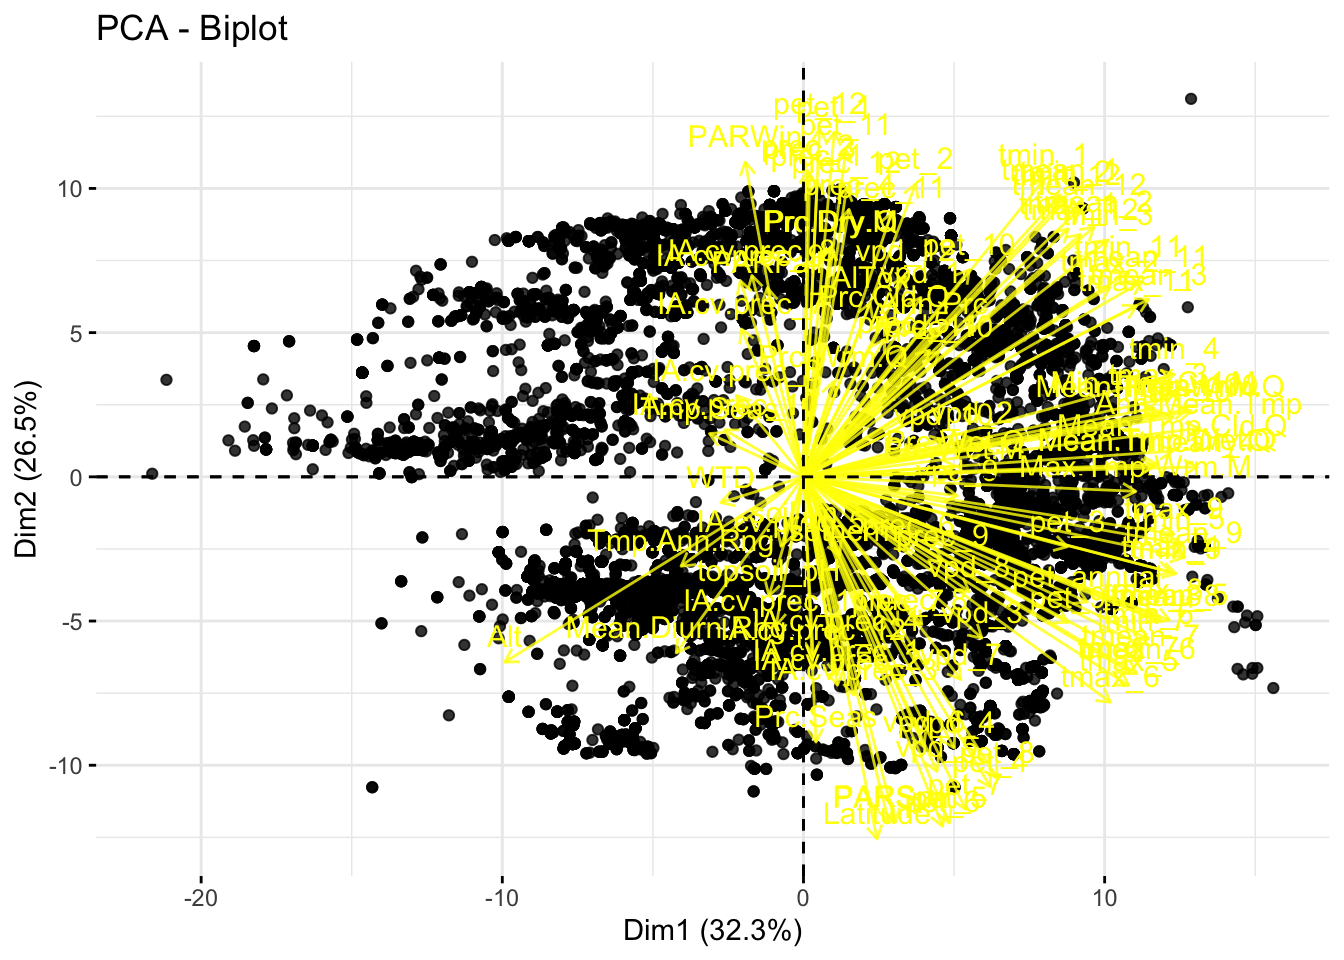
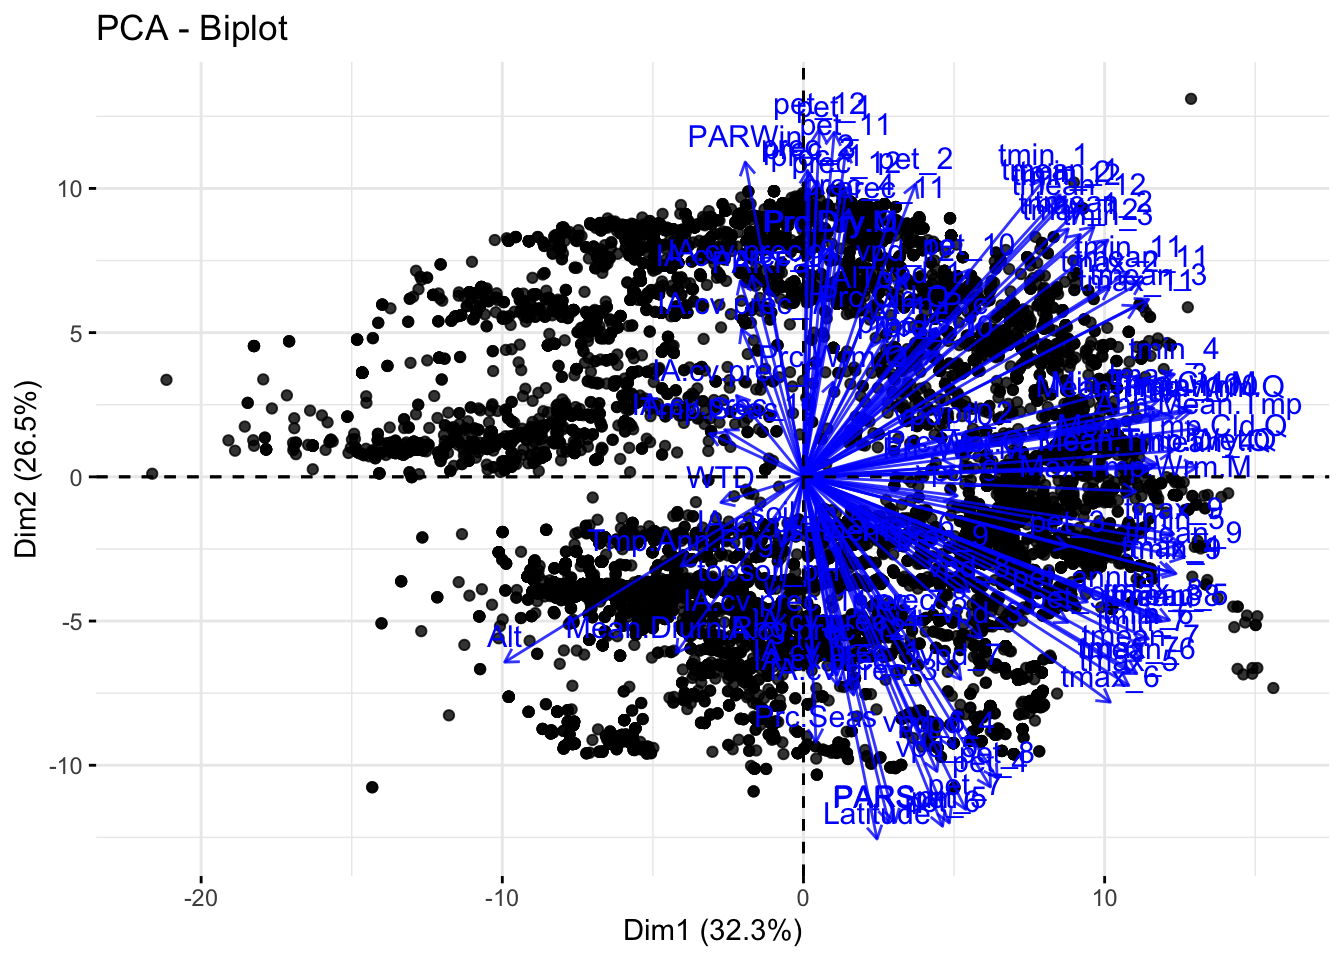
Build site.

Changed region(s): [[0.3438, 0.0938, 0.9688, 0.875]]

diff --git a/docs/WorkflowrTutorial.html b/docs/WorkflowrTutorial.html
@@ -509,16 +509,16 @@ This reproducible <a href="http://rmarkdown.rstudio.com">R Markdown</a> analysis
 <div class="panel panel-default">
 <div class="panel-heading">
 <p class="panel-title">
-<a data-toggle="collapse" data-parent="#workflowr-checks" href="#strongRepositoryversionstrongahrefhttpsgithubcomchloeemclaughlinmyprojecttree313c1032390f8142e7d67666b114576a4168c2a2targetblank313c103a"> <span class="glyphicon glyphicon-ok text-success" aria-hidden="true"></span> <strong>Repository version:</strong> <a href="https://github.com/chloee-mclaughlin/myproject/tree/313c1032390f8142e7d67666b114576a4168c2a2" target="_blank">313c103</a> </a>
+<a data-toggle="collapse" data-parent="#workflowr-checks" href="#strongRepositoryversionstrongahrefhttpsgithubcomchloeemclaughlinmyprojecttreea72b19652a5252588ab214bdb7db50e577f00f92targetblanka72b196a"> <span class="glyphicon glyphicon-ok text-success" aria-hidden="true"></span> <strong>Repository version:</strong> <a href="https://github.com/chloee-mclaughlin/myproject/tree/a72b19652a5252588ab214bdb7db50e577f00f92" target="_blank">a72b196</a> </a>
 </p>
 </div>
[2 lines of base64/hex data omitted]
 <div class="panel-body">
 <p>
 Great! You are using Git for version control. Tracking code development and connecting the code version to the results is critical for reproducibility.
 </p>
 <p>
-The results in this page were generated with repository version <a href="https://github.com/chloee-mclaughlin/myproject/tree/313c1032390f8142e7d67666b114576a4168c2a2" target="_blank">313c103</a>. See the <em>Past versions</em> tab to see a history of the changes made to the R Markdown and HTML files.
+The results in this page were generated with repository version <a href="https://github.com/chloee-mclaughlin/myproject/tree/a72b19652a5252588ab214bdb7db50e577f00f92" target="_blank">a72b196</a>. See the <em>Past versions</em> tab to see a history of the changes made to the R Markdown and HTML files.
 </p>
 <p>
 Note that you need to be careful to ensure that all relevant files for the analysis have been committed to Git prior to generating the results (you can use <code>wflow_publish</code> or <code>wflow_git_commit</code>). workflowr only checks the R Markdown file, but you know if there are other scripts or data files that it depends on. Below is the status of the Git repository when the results were generated:
@@ -532,7 +532,8 @@ Ignored files:
     Ignored:    data/.DS_Store
 
 Untracked files:
-    Untracked:  WorkflowRTutoiral.R
+    Untracked:  WorkflowRTutorial.R
+    Untracked:  data/Maize_Accessions_climate_drought_soil_clean_data_12220.csv
     Untracked:  data/all.acc.csv
     Untracked:  data/allLines_with_GID_includes_founders.csv
     Untracked:  data/maiz_clim_all
@@ -575,6 +576,40 @@ Message
 </tr>
 </thead>
 <tbody>
+<tr>
+<td>
+Rmd
+</td>
+<td>
+<a href="https://github.com/chloee-mclaughlin/myproject/blob/a72b19652a5252588ab214bdb7db50e577f00f92/analysis/WorkflowrTutorial.Rmd" target="_blank">a72b196</a>
+</td>
+<td>
+Chloee McLaughlin
+</td>
+<td>
+2020-12-07
+</td>
+<td>
+Publish the PCA analysis-updated 12/7/20
+</td>
+</tr>
+<tr>
+<td>
+html
+</td>
+<td>
+<a href="https://rawcdn.githack.com/chloee-mclaughlin/myproject/fdd6227446066043621251fd4ef9c2cc98baaa46/docs/WorkflowrTutorial.html" target="_blank">fdd6227</a>
+</td>
+<td>
+Chloee McLaughlin
+</td>
+<td>
+2020-12-07
+</td>
+<td>
+Build site.
+</td>
+</tr>
 <tr>
 <td>
 html
@@ -819,7 +854,7 @@ Chloee McLaughlin
 <pre class="r"><code>##test for only founders
 fviz_pca_biplot(env.pc,
                 axes= c(1,2),
-                col.var = &quot;yellow&quot;, alpha=.8, # Variables color
+                col.var = &quot;blue&quot;, alpha=.8, # Variables color and transparency
                 col.ind = &quot;black&quot;,
                 label = &quot;var&quot;, # Individuals color,
                 legend.title = &quot;Races&quot;
@@ -862,6 +897,41 @@ Chloee McLaughlin
 </table>
 </div>
 </div>
+<p>Isolate founder races and see environment</p>
+<pre class="r"><code>##Making dataframe with only founder races
+found.env.dat &lt;- all.acc[all.acc$Race %in% c(&quot;CONICO&quot;,&quot;GORDO&quot;,&quot;JALA&quot;,&quot;NALTEL&quot;,&quot;PALOME&quot;,
+                                                     &quot;REVENT&quot;,&quot;TABLON&quot;,&quot;ZAPCHI&quot;), ]
+
+###PC, removing NAs and setting categorical variables
+found.env.dat &lt;-na.omit(found.env.dat)
+active.found &lt;-found.env.dat[,6:142]
+active.found.cat &lt;- found.env.dat[,1:5]
+
+##Run PCA for only MAGIC founders
+found.pc &lt;- dudi.pca(active.found,
+                    scannf = FALSE,   # Hide scree plot
+                    nf = 10           # Number of components kept in the results
+                   )
+
+#using races as a grouping factor
+race&lt;-active.found.cat$Race
+
+fviz_pca_ind(found.pc,
+             axes=c(1,2),
+             col.ind = as.factor(race),
+             geom = &quot;point&quot;,
+                    palette = c(&quot;#2586CC&quot;,&quot;#337C61&quot;,&quot;#E1C34A&quot;,&quot;#D8904F&quot;,&quot;#725E5E&quot;, &quot;#F0B3A2&quot;,
+                                &quot;#88CF56&quot;, &quot;#A44638&quot;),
+             alpha=.6,
+                    addEllipses = TRUE, # Concentration ellipses
+                    ellipse.type = c(&quot;norm&quot;),
+                    legend.title = &quot;Race&quot;)</code></pre>
+<p><img src="figure/WorkflowrTutorial.Rmd/unnamed-chunk-5-1.png" width="672" style="display: block; margin: auto;" /></p>
+<pre class="r"><code>                    #repel = TRUE)</code></pre>
+<p>Look at just soil traits (all FOAM genotypes)</p>
+<pre class="r"><code>FOAM &lt;- read.csv(&quot;data/Maize_Accessions_climate_drought_soil_clean_data_12220.csv&quot;)
+dim(FOAM)</code></pre>
+<pre><code>[1] 2912  225</code></pre>
 <br>
 <p>
 <button type="button" class="btn btn-default btn-workflowr btn-workflowr-sessioninfo" data-toggle="collapse" data-target="#workflowr-sessioninfo" style="display: block;">

diff --git a/docs/WorkFlowRTut.html b/docs/WorkFlowRTut.html
@@ -509,16 +509,16 @@ This reproducible <a href="http://rmarkdown.rstudio.com">R Markdown</a> analysis
 <div class="panel panel-default">
 <div class="panel-heading">
 <p class="panel-title">
-<a data-toggle="collapse" data-parent="#workflowr-checks" href="#strongRepositoryversionstrongahrefhttpsgithubcomchloeemclaughlinmyprojecttree70b2403c4c3c8fce5871a002f6033199fd955082targetblank70b2403a"> <span class="glyphicon glyphicon-ok text-success" aria-hidden="true"></span> <strong>Repository version:</strong> <a href="https://github.com/chloee-mclaughlin/myproject/tree/70b2403c4c3c8fce5871a002f6033199fd955082" target="_blank">70b2403</a> </a>
+<a data-toggle="collapse" data-parent="#workflowr-checks" href="#strongRepositoryversionstrongahrefhttpsgithubcomchloeemclaughlinmyprojecttreea72b19652a5252588ab214bdb7db50e577f00f92targetblanka72b196a"> <span class="glyphicon glyphicon-ok text-success" aria-hidden="true"></span> <strong>Repository version:</strong> <a href="https://github.com/chloee-mclaughlin/myproject/tree/a72b19652a5252588ab214bdb7db50e577f00f92" target="_blank">a72b196</a> </a>
 </p>
 </div>
[2 lines of base64/hex data omitted]
 <div class="panel-body">
 <p>
 Great! You are using Git for version control. Tracking code development and connecting the code version to the results is critical for reproducibility.
 </p>
 <p>
-The results in this page were generated with repository version <a href="https://github.com/chloee-mclaughlin/myproject/tree/70b2403c4c3c8fce5871a002f6033199fd955082" target="_blank">70b2403</a>. See the <em>Past versions</em> tab to see a history of the changes made to the R Markdown and HTML files.
+The results in this page were generated with repository version <a href="https://github.com/chloee-mclaughlin/myproject/tree/a72b19652a5252588ab214bdb7db50e577f00f92" target="_blank">a72b196</a>. See the <em>Past versions</em> tab to see a history of the changes made to the R Markdown and HTML files.
 </p>
 <p>
 Note that you need to be careful to ensure that all relevant files for the analysis have been committed to Git prior to generating the results (you can use <code>wflow_publish</code> or <code>wflow_git_commit</code>). workflowr only checks the R Markdown file, but you know if there are other scripts or data files that it depends on. Below is the status of the Git repository when the results were generated:
@@ -532,7 +532,8 @@ Ignored files:
     Ignored:    data/.DS_Store
 
 Untracked files:
-    Untracked:  WorkflowRTutoiral.R
+    Untracked:  WorkflowRTutorial.R
+    Untracked:  data/Maize_Accessions_climate_drought_soil_clean_data_12220.csv
     Untracked:  data/all.acc.csv
     Untracked:  data/allLines_with_GID_includes_founders.csv
     Untracked:  data/maiz_clim_all
@@ -575,6 +576,23 @@ Message
 </tr>
 </thead>
 <tbody>
+<tr>
+<td>
+html
+</td>
+<td>
+<a href="https://rawcdn.githack.com/chloee-mclaughlin/myproject/313c1032390f8142e7d67666b114576a4168c2a2/docs/WorkFlowRTut.html" target="_blank">313c103</a>
+</td>
+<td>
+Chloee McLaughlin
+</td>
+<td>
+2020-12-07
+</td>
+<td>
+Build site.
+</td>
+</tr>
 <tr>
 <td>
 html

diff --git a/docs/license.html b/docs/license.html
@@ -373,16 +373,16 @@ This reproducible <a href="http://rmarkdown.rstudio.com">R Markdown</a> analysis
 <div class="panel panel-default">
 <div class="panel-heading">
 <p class="panel-title">
-<a data-toggle="collapse" data-parent="#workflowr-checks" href="#strongRepositoryversionstrongahrefhttpsgithubcomchloeemclaughlinmyprojecttree70b2403c4c3c8fce5871a002f6033199fd955082targetblank70b2403a"> <span class="glyphicon glyphicon-ok text-success" aria-hidden="true"></span> <strong>Repository version:</strong> <a href="https://github.com/chloee-mclaughlin/myproject/tree/70b2403c4c3c8fce5871a002f6033199fd955082" target="_blank">70b2403</a> </a>
+<a data-toggle="collapse" data-parent="#workflowr-checks" href="#strongRepositoryversionstrongahrefhttpsgithubcomchloeemclaughlinmyprojecttreea72b19652a5252588ab214bdb7db50e577f00f92targetblanka72b196a"> <span class="glyphicon glyphicon-ok text-success" aria-hidden="true"></span> <strong>Repository version:</strong> <a href="https://github.com/chloee-mclaughlin/myproject/tree/a72b19652a5252588ab214bdb7db50e577f00f92" target="_blank">a72b196</a> </a>
 </p>
 </div>
[2 lines of base64/hex data omitted]
 <div class="panel-body">
 <p>
 Great! You are using Git for version control. Tracking code development and connecting the code version to the results is critical for reproducibility.
 </p>
 <p>
-The results in this page were generated with repository version <a href="https://github.com/chloee-mclaughlin/myproject/tree/70b2403c4c3c8fce5871a002f6033199fd955082" target="_blank">70b2403</a>. See the <em>Past versions</em> tab to see a history of the changes made to the R Markdown and HTML files.
+The results in this page were generated with repository version <a href="https://github.com/chloee-mclaughlin/myproject/tree/a72b19652a5252588ab214bdb7db50e577f00f92" target="_blank">a72b196</a>. See the <em>Past versions</em> tab to see a history of the changes made to the R Markdown and HTML files.
 </p>
 <p>
 Note that you need to be careful to ensure that all relevant files for the analysis have been committed to Git prior to generating the results (you can use <code>wflow_publish</code> or <code>wflow_git_commit</code>). workflowr only checks the R Markdown file, but you know if there are other scripts or data files that it depends on. Below is the status of the Git repository when the results were generated:
@@ -396,7 +396,8 @@ Ignored files:
     Ignored:    data/.DS_Store
 
 Untracked files:
-    Untracked:  WorkflowRTutoiral.R
+    Untracked:  WorkflowRTutorial.R
+    Untracked:  data/Maize_Accessions_climate_drought_soil_clean_data_12220.csv
     Untracked:  data/all.acc.csv
     Untracked:  data/allLines_with_GID_includes_founders.csv
     Untracked:  data/maiz_clim_all
@@ -439,6 +440,23 @@ Message
 </tr>
 </thead>
 <tbody>
+<tr>
+<td>
+html
+</td>
+<td>
+<a href="https://rawcdn.githack.com/chloee-mclaughlin/myproject/313c1032390f8142e7d67666b114576a4168c2a2/docs/license.html" target="_blank">313c103</a>
+</td>
+<td>
+Chloee McLaughlin
+</td>
+<td>
+2020-12-07
+</td>
+<td>
+Build site.
+</td>
+</tr>
 <tr>
 <td>
 html

diff --git a/docs/about.html b/docs/about.html
@@ -373,16 +373,16 @@ This reproducible <a href="http://rmarkdown.rstudio.com">R Markdown</a> analysis
 <div class="panel panel-default">
 <div class="panel-heading">
 <p class="panel-title">
-<a data-toggle="collapse" data-parent="#workflowr-checks" href="#strongRepositoryversionstrongahrefhttpsgithubcomchloeemclaughlinmyprojecttree70b2403c4c3c8fce5871a002f6033199fd955082targetblank70b2403a"> <span class="glyphicon glyphicon-ok text-success" aria-hidden="true"></span> <strong>Repository version:</strong> <a href="https://github.com/chloee-mclaughlin/myproject/tree/70b2403c4c3c8fce5871a002f6033199fd955082" target="_blank">70b2403</a> </a>
+<a data-toggle="collapse" data-parent="#workflowr-checks" href="#strongRepositoryversionstrongahrefhttpsgithubcomchloeemclaughlinmyprojecttreea72b19652a5252588ab214bdb7db50e577f00f92targetblanka72b196a"> <span class="glyphicon glyphicon-ok text-success" aria-hidden="true"></span> <strong>Repository version:</strong> <a href="https://github.com/chloee-mclaughlin/myproject/tree/a72b19652a5252588ab214bdb7db50e577f00f92" target="_blank">a72b196</a> </a>
 </p>
 </div>
[2 lines of base64/hex data omitted]
 <div class="panel-body">
 <p>
 Great! You are using Git for version control. Tracking code development and connecting the code version to the results is critical for reproducibility.
 </p>
 <p>
-The results in this page were generated with repository version <a href="https://github.com/chloee-mclaughlin/myproject/tree/70b2403c4c3c8fce5871a002f6033199fd955082" target="_blank">70b2403</a>. See the <em>Past versions</em> tab to see a history of the changes made to the R Markdown and HTML files.
+The results in this page were generated with repository version <a href="https://github.com/chloee-mclaughlin/myproject/tree/a72b19652a5252588ab214bdb7db50e577f00f92" target="_blank">a72b196</a>. See the <em>Past versions</em> tab to see a history of the changes made to the R Markdown and HTML files.
 </p>
 <p>
 Note that you need to be careful to ensure that all relevant files for the analysis have been committed to Git prior to generating the results (you can use <code>wflow_publish</code> or <code>wflow_git_commit</code>). workflowr only checks the R Markdown file, but you know if there are other scripts or data files that it depends on. Below is the status of the Git repository when the results were generated:
@@ -396,7 +396,8 @@ Ignored files:
     Ignored:    data/.DS_Store
 
 Untracked files:
-    Untracked:  WorkflowRTutoiral.R
+    Untracked:  WorkflowRTutorial.R
+    Untracked:  data/Maize_Accessions_climate_drought_soil_clean_data_12220.csv
     Untracked:  data/all.acc.csv
     Untracked:  data/allLines_with_GID_includes_founders.csv
     Untracked:  data/maiz_clim_all
@@ -439,6 +440,23 @@ Message
 </tr>
 </thead>
 <tbody>
+<tr>
+<td>
+html
+</td>
+<td>
+<a href="https://rawcdn.githack.com/chloee-mclaughlin/myproject/313c1032390f8142e7d67666b114576a4168c2a2/docs/about.html" target="_blank">313c103</a>
+</td>
+<td>
+Chloee McLaughlin
+</td>
+<td>
+2020-12-07
+</td>
+<td>
+Build site.
+</td>
+</tr>
 <tr>
 <td>
 html

diff --git a/docs/index.html b/docs/index.html
@@ -373,16 +373,16 @@ This reproducible <a href="http://rmarkdown.rstudio.com">R Markdown</a> analysis
 <div class="panel panel-default">
 <div class="panel-heading">
 <p class="panel-title">
-<a data-toggle="collapse" data-parent="#workflowr-checks" href="#strongRepositoryversionstrongahrefhttpsgithubcomchloeemclaughlinmyprojecttree70b2403c4c3c8fce5871a002f6033199fd955082targetblank70b2403a"> <span class="glyphicon glyphicon-ok text-success" aria-hidden="true"></span> <strong>Repository version:</strong> <a href="https://github.com/chloee-mclaughlin/myproject/tree/70b2403c4c3c8fce5871a002f6033199fd955082" target="_blank">70b2403</a> </a>
+<a data-toggle="collapse" data-parent="#workflowr-checks" href="#strongRepositoryversionstrongahrefhttpsgithubcomchloeemclaughlinmyprojecttreea72b19652a5252588ab214bdb7db50e577f00f92targetblanka72b196a"> <span class="glyphicon glyphicon-ok text-success" aria-hidden="true"></span> <strong>Repository version:</strong> <a href="https://github.com/chloee-mclaughlin/myproject/tree/a72b19652a5252588ab214bdb7db50e577f00f92" target="_blank">a72b196</a> </a>
 </p>
 </div>
[2 lines of base64/hex data omitted]
 <div class="panel-body">
 <p>
 Great! You are using Git for version control. Tracking code development and connecting the code version to the results is critical for reproducibility.
 </p>
 <p>
-The results in this page were generated with repository version <a href="https://github.com/chloee-mclaughlin/myproject/tree/70b2403c4c3c8fce5871a002f6033199fd955082" target="_blank">70b2403</a>. See the <em>Past versions</em> tab to see a history of the changes made to the R Markdown and HTML files.
+The results in this page were generated with repository version <a href="https://github.com/chloee-mclaughlin/myproject/tree/a72b19652a5252588ab214bdb7db50e577f00f92" target="_blank">a72b196</a>. See the <em>Past versions</em> tab to see a history of the changes made to the R Markdown and HTML files.
 </p>
 <p>
 Note that you need to be careful to ensure that all relevant files for the analysis have been committed to Git prior to generating the results (you can use <code>wflow_publish</code> or <code>wflow_git_commit</code>). workflowr only checks the R Markdown file, but you know if there are other scripts or data files that it depends on. Below is the status of the Git repository when the results were generated:
@@ -396,7 +396,8 @@ Ignored files:
     Ignored:    data/.DS_Store
 
 Untracked files:
-    Untracked:  WorkflowRTutoiral.R
+    Untracked:  WorkflowRTutorial.R
+    Untracked:  data/Maize_Accessions_climate_drought_soil_clean_data_12220.csv
     Untracked:  data/all.acc.csv
     Untracked:  data/allLines_with_GID_includes_founders.csv
     Untracked:  data/maiz_clim_all
@@ -439,6 +440,23 @@ Message
 </tr>
 </thead>
 <tbody>
+<tr>
+<td>
+html
+</td>
+<td>
+<a href="https://rawcdn.githack.com/chloee-mclaughlin/myproject/313c1032390f8142e7d67666b114576a4168c2a2/docs/index.html" target="_blank">313c103</a>
+</td>
+<td>
+Chloee McLaughlin
+</td>
+<td>
+2020-12-07
+</td>
+<td>
+Build site.
+</td>
+</tr>
 <tr>
 <td>
 html
